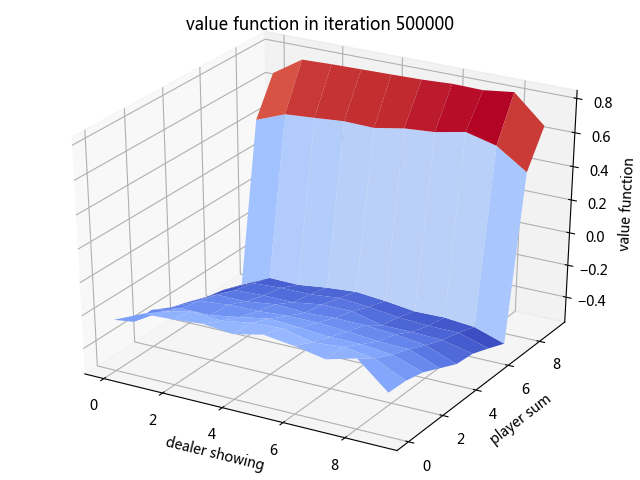
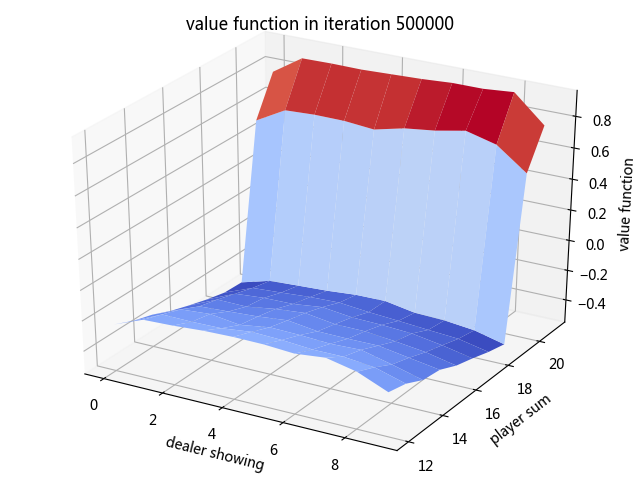
blackjack

diff --git a/blackjack/policy_estimation.py b/blackjack/policy_estimation.py
@@ -2,6 +2,7 @@
 import time
 import copy
 import numpy
+import random
 
 from environment.blackjack import Environment
 import matplotlib.pyplot as plt
@@ -17,6 +18,8 @@ class MonteCarlo:
         self.actions = ['hit', 'stick']
         self.value_function = numpy.zeros((len(self.states), ), dtype='float')
         self.value_count = numpy.zeros((len(self.states), ), dtype='float')
+        self.action_function = numpy.zeros((len(self.states), len(self.actions)), dtype='float')
+        self.action_count = numpy.zeros((len(self.states), len(self.actions)), dtype='float')
         self.policy = self._init_policy()
         self.episodes = []
     
@@ -37,57 +40,119 @@ class MonteCarlo:
         policy = numpy.zeros((len(self.states), len(self.actions)), dtype='float')
         for stateid in range(len(self.states)):
             player_state = int(self.states[stateid].split('#')[1])
-            if player_state >= 20 and player_state != 22:
-                policy[stateid][0] = 0.0
-                policy[stateid][1] = 1.0
+            if player_state >= 20:
+                policy[stateid, 0] = 0.0
+                policy[stateid, 1] = 1.0
             else:
-                policy[stateid][0] = 1.0
-                policy[stateid][1] = 0.0
-            # print dealer_state, player_state, policy[stateid]
+                policy[stateid, 0] = 1.0
+                policy[stateid, 1] = 0.0
         
         return policy
         
-    def policy_estimating(self):
+    def policy_estimating_first_visit(self):
         n_iter = 0
-        value_functions = []
         while True:
             dealer_showing, player_state, reward, done = self.env.reset()
             stateid = self.states_dict['%s#%i' % (dealer_showing, player_state)]
+            episode = []
             if done:
-                episode = [[stateid, 1, reward]]
-            else:
-                episode = []
+                episode.append([stateid, 1, reward])
             # 根据当前策略生成轨迹
             while not done:
                 actionid = self._sample_episode(self.policy, stateid)
                 player_state, reward, done = self.env.step(action=self.actions[actionid])
-                stateid = self.states_dict['%s#%i' % (dealer_showing, player_state)]
+                new_stateid = self.states_dict['%s#%i' % (dealer_showing, player_state)]
                 # print new_stateid, reward, done
                 episode.append([stateid, actionid, reward])
+                stateid = new_stateid
+            # self._print_episode(episode)
             # 根据轨迹更新状态值函数
             state_visited = {}
-            for i, [stateid, actionid, reward] in enumerate(episode):
+            for stateid, actionid, reward in episode:
                 # print dealer_state, self.states[stateid], self.actions[actionid], reward
                 if stateid not in state_visited:
                     state_visited[stateid] = None
-                    sum_reward = sum([episode[j][2] for j in range(i+1, len(episode))])
+                    sum_reward = episode[-1][2]
                     self.value_count[stateid] += 1.0
-                    # print self.states[stateid], sum_reward
                     self.value_function[stateid] += (sum_reward - self.value_function[stateid]) \
                         / self.value_count[stateid]
             if n_iter % 100000 == 0:
-                value_functions.append(list(self.value_function))
                 print list(self.value_function)
                 self._plot_value_function(list(self.value_function), n_iter)
             n_iter += 1
+        
+    def monte_carlo_control_first_visit(self):
+        n_iter = 0
+        while True:
+            if n_iter % 100000 == 0:
+                print list(self.value_function)
+                self._plot_value_function(list(self.value_function), n_iter)
+                self._plot_policy(self.policy, n_iter)
+            # 初始化
+            dealer_showing, player_state, reward, done = self.env.reset()
+            stateid = self.states_dict['%s#%i' % (dealer_showing, player_state)]
+            episode = []
+            if done:
+                episode.append([stateid, 1, reward])
+            # 根据当前策略生成轨迹
+            while not done:
+                actionid = self._sample_episode(self.policy, stateid)
+                player_state, reward, done = self.env.step(action=self.actions[actionid])
+                new_stateid = self.states_dict['%s#%i' % (dealer_showing, player_state)]
+                # print new_stateid, reward, done
+                episode.append([stateid, actionid, reward])
+                stateid = new_stateid
+            # self._print_episode(episode)
+            # 根据轨迹更新状态值函数
+            state_visited = {}
+            state_action_visited = {}
+            for stateid, actionid, reward in episode:
+                # print dealer_state, self.states[stateid], self.actions[actionid], reward
+                if stateid not in state_visited:
+                    state_visited[stateid] = None
+                    sum_reward = episode[-1][2]
+                    self.value_count[stateid] += 1.0
+                    self.value_function[stateid] += (sum_reward - self.value_function[stateid]) \
+                        / self.value_count[stateid]
+                if '%i#%i' % (stateid, actionid) not in state_action_visited:
+                    state_action_visited['%i#%i' % (stateid, actionid)] = None
+                    sum_reward = episode[-1][2]
+                    self.action_count[stateid, actionid] += 1.0
+                    self.action_function[stateid, actionid] += (sum_reward - \
+                        self.action_function[stateid, actionid]) \
+                        / self.action_count[stateid, actionid]
+            # 根据动作值函数更新策略
+            state_visited = {}
+            for _, [stateid, actionid, reward] in enumerate(episode):
+                if stateid not in state_visited:
+                    state_visited[stateid] = None
+                    # bust状态一定执行 stick动作
+                    dealer_showing, player_state = self.states[stateid].split('#')
+                    if int(player_state) >= 22:
+                        self.policy[stateid, 0] = 0.0
+                        self.policy[stateid, 1] = 1.0
+                    else:
+                        for actionid in range(len(self.actions)):
+                            self.policy[stateid, actionid] = 0.0
+                        # print self.states[stateid], list(self.action_function[stateid,:])
+                        actionid = max(enumerate(list(self.action_function[stateid,:])), \
+                                       key=lambda x: x[1])[0]
+                        self.policy[stateid, actionid] = 1.0
+            n_iter += 1
             
     def _sample_episode(self, policy, stateid):
-        if stateid < 12:
-            actionid = 0
-        else:
-            actionid = max(enumerate(policy[stateid]), key=lambda x: x[1])[0]
+        action_list = []
+        for actionid in range(len(self.actions)):
+            action_list.extend([actionid] * int(self.policy[stateid, actionid] * 100))
+        actionid = random.choice(action_list)
         
         return actionid
+    
+    def _print_episode(self, episode):
+        print 'episode start %s' % ('='*20)
+        for stateid, actionid, reward in episode:
+            print self.states[stateid], self.actions[actionid], reward
+        print 'episode end %s' % ('='*20)
         
     def _plot_value_function(self, value_functions, n_iter):
         value_matrix = numpy.zeros((10, 10), dtype='float')
@@ -96,10 +161,10 @@ class MonteCarlo:
             dealer_showing = 0 if dealer_showing == 'A' else int(dealer_showing)-1
             player_state = int(player_state)
             if player_state >= 12 and player_state < 22:
-                value_matrix[dealer_showing, player_state-12] = value_functions[stateid]
+                value_matrix[player_state-12, dealer_showing] = value_functions[stateid]
         fig = plt.figure()
         ax = Axes3D(fig)
-        X, Y = numpy.meshgrid(range(10), range(10))
+        Y, X = numpy.meshgrid(range(10), range(12,22))
         ax.plot_surface(Y, X, value_matrix, rstride=1, cstride=1, cmap='coolwarm')
         ax.set_title('value function in iteration %i' % n_iter)
         ax.set_xlabel('dealer showing')
@@ -107,6 +172,27 @@ class MonteCarlo:
         ax.set_zlabel('value function')
         plt.show()
         
+    def _plot_policy(self, policy, n_iter):
+        policy_matrix = numpy.zeros((10, 10), dtype='float')
+        for stateid in range(len(self.states)):
+            dealer_showing, player_state = self.states[stateid].split('#')
+            dealer_showing = 0 if dealer_showing == 'A' else int(dealer_showing)-1
+            player_state = int(player_state)
+            if player_state >= 12 and player_state < 22:
+                for actionid in range(len(self.actions)):
+                    if policy[stateid, actionid] == 1.0:
+                        policy_matrix[player_state-12, dealer_showing] = actionid
+        fig = plt.figure()
+        print policy_matrix
+        plt.contourf(range(10), range(12,22), policy_matrix, 1, cmap='coolwarm', \
+                     corner_mask=True)
+        plt.title('policy in iteration %i' % n_iter)
+        plt.xlabel('dealer showing')
+        plt.ylabel('player sum')
+        plt.show()
+        # fig.savefig('experiments/policy%i' % n_iter)
+        
         
 mc = MonteCarlo()
-mc.policy_estimating()
+# mc.policy_estimating_first_visit()
+mc.monte_carlo_control_first_visit()

diff --git a/environment/blackjack.py b/environment/blackjack.py
@@ -21,6 +21,7 @@ class Environment:
 			reward = 0
 			done = False
 		state = self.player_score if self.player_score <= 21 else 22
+		# print 'dealer_score %i' % (self.dealer_score)
 		return dealer_showing, state, reward, done
 		
 	def _init_dealer(self):
@@ -79,7 +80,7 @@ class Environment:
 					self.player_score += 1
 			else:
 				self.player_score += int(card)
-			done = True if self.player_score > 21 else False
+			done = False
 		elif action == 'stick':
 			done = True
 		# judge new state
@@ -114,6 +115,6 @@ class Environment:
 						reward = -1
 		else:
 			reward = 0
-		state = self.player_score if self.player_score <= 21 else 22
+		state = 22 if self.player_score > 21 else self.player_score 
 			
 		return state, reward, done
